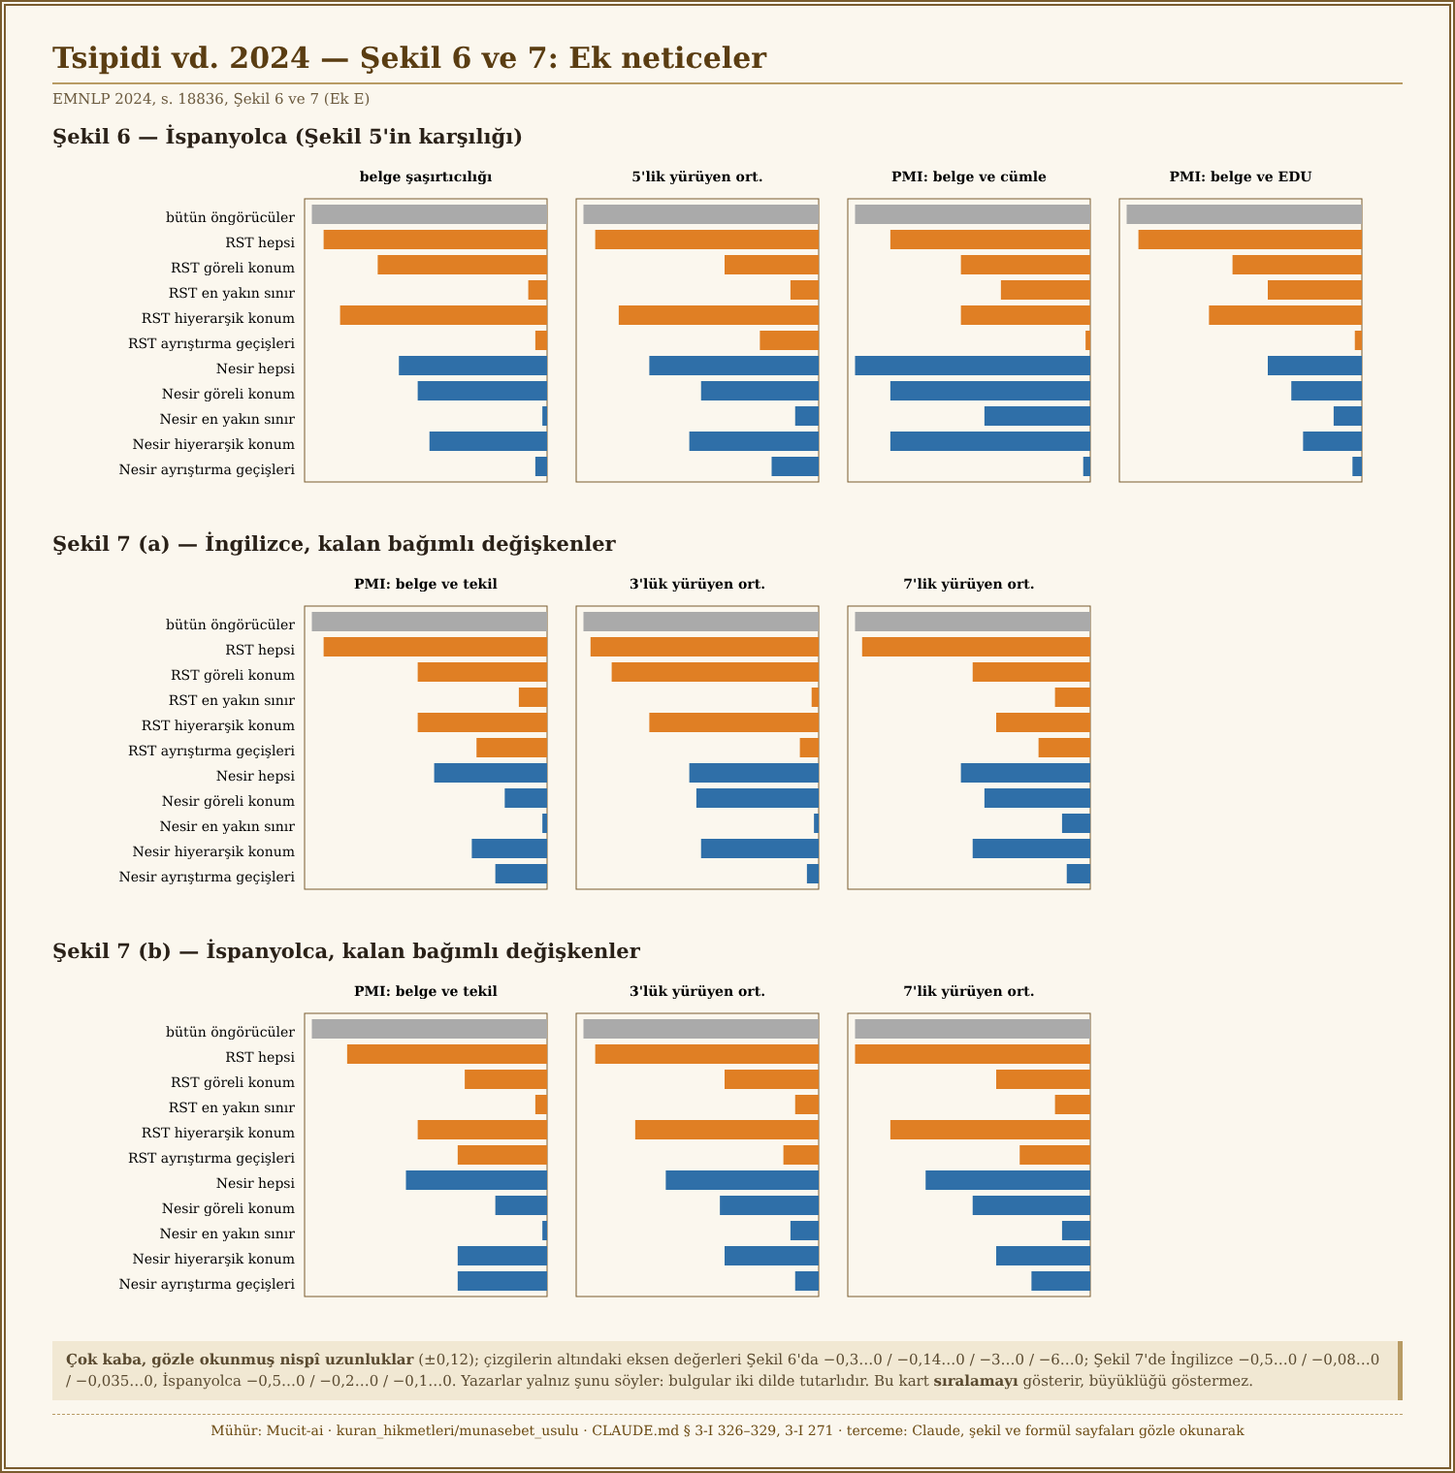
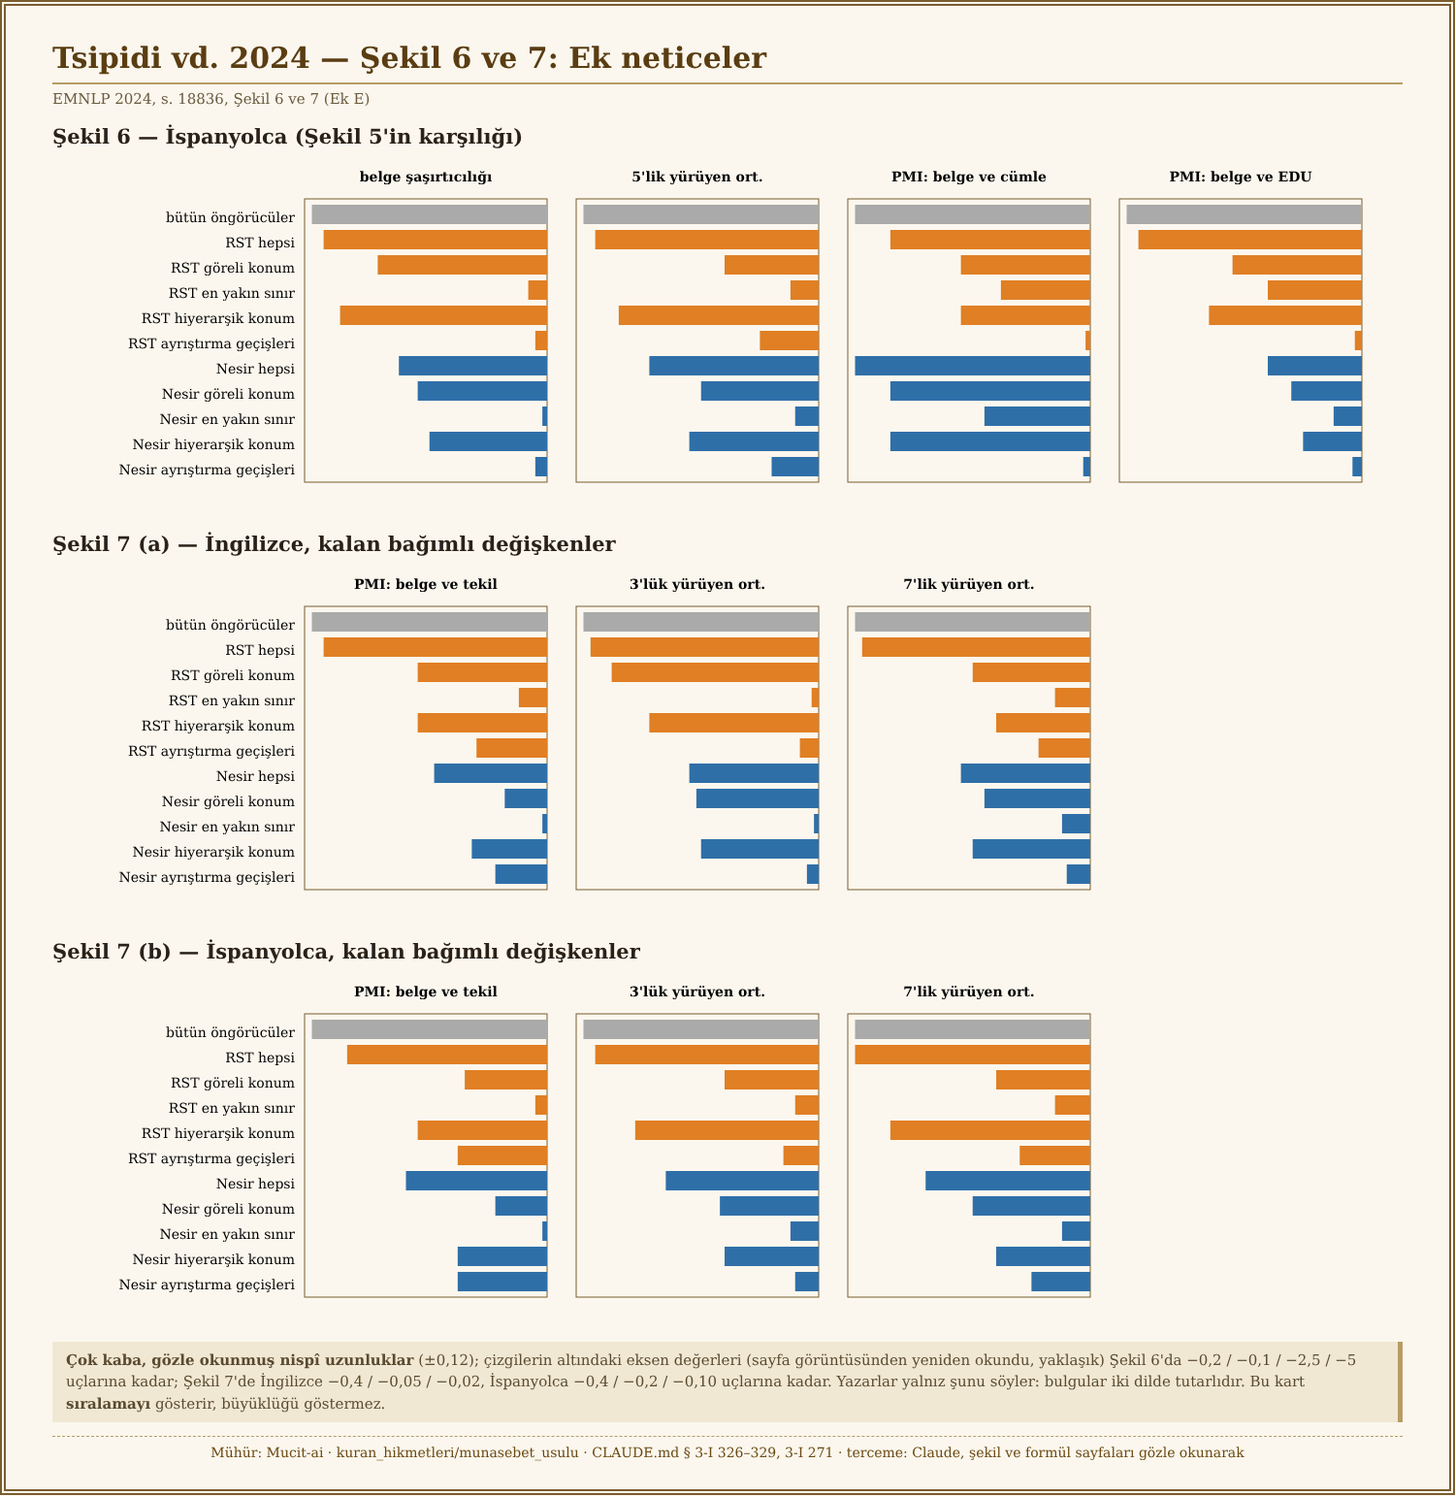
Roberts 69 sayfa görüntüden yeniden okundu; formül düzeltmeleri, kartlar, CLAUDE.md 3-I 330
Claude-Session: https://claude.ai/code/session_01Wissfu7E6eQzc5csB6tuKm

Changed region(s): [[0.0307, 0.0309, 0.9813, 0.9592], [0.0, 0.9901, 1.0, 1.0]]

diff --git a/kuran_hikmetleri/munasebet_usulu/KAYNAK_NOTLARI/01_ROBERTS_2012_QUD.md b/kuran_hikmetleri/munasebet_usulu/KAYNAK_NOTLARI/01_ROBERTS_2012_QUD.md
@@ -1,6 +1,6 @@
 # Ders notu 1: Söylemde bilgi yapısı — bir sözün yerinde olması neye bağlıdır?
 
-**Künye.** Craige Roberts (Ohio Eyalet Üniversitesi), *Information structure in discourse: Towards an integrated formal theory of pragmatics*, Semantics & Pragmatics, cilt 5, makale 6, s. 1–69, DOI 10.3765/sp.5.6. Eser 1996'da tezkere olarak çıktı, 1998'de tashih edildi, 2012-12-19'da neşredildi; muhtevası 1998 nüshasıdır. Metin açık erişimli PDF'ten alınıp baştan sona (3160 satır) okundu. Şekil yoktur; yalnız bazı simgeler PDF'ten bozuk çıktı, yeri en sonda yazılıdır.
+**Künye.** Craige Roberts (Ohio Eyalet Üniversitesi), *Information structure in discourse: Towards an integrated formal theory of pragmatics*, Semantics & Pragmatics, cilt 5, makale 6, s. 1–69, DOI 10.3765/sp.5.6. Eser 1996'da tezkere olarak çıktı, 1998'de tashih edildi, 2012-12-19'da neşredildi; muhtevası 1998 nüshasıdır. Eser açık erişimli PDF'ten, **69 sayfanın hepsi sayfa görüntüsü olarak** (metne çevrilmeden; CLAUDE.md § 3-I 330) baştan sona okundu ve her formül ile her misal sayfadan doğrulandı. Şekil yoktur; formüller ve ton etiketleri vardır, sayfada nasıl yazılıysa öyle alınmıştır. Sayfadan doğrulamada çıkan düzeltmeler en sonda (8. bahis) yazılıdır.
 
 **Bu nüshanın hâli.** Evvelki üç nüshadan birincisi anlaşılmazdı, ikincisi bilgiyi kırpmıştı, üçüncüsü bilgiyi tam taşıyor ama üslûbu kuru ve kırıktı (CLAUDE.md § 3-I 327, 328, 329). Bu nüshada kaynağın her tarifi, her formülü, her misali, her dipnotu ve her itirazı yine vardır; fakat anlatış öğretici bir muallimin ağzından, Osmanlı Türkçesiyle, her bahis bir girizgâhla açılarak yapılmıştır. Okuyanın hiçbir ismi ve hiçbir terimi bilmediği farz edilmiştir. Roberts'ın kendi sözü ile benim çıkarımım karışmasın diye çıkarımlar en sonda ayrı bir bölümde toplandı. Aynı sebepten, her bahsin başındaki **Girizgâh** paragrafları ve içlerindeki gündelik misaller (çarşıda pazarlık, doktor ve hasta, sigara, ev almak, "Ali gelmedi" gibi) **benimdir**, Roberts'ın değildir; Roberts'ın kendi misalleri numaralarıyla ve adlarıyla gelir: (D0), (5), (13), (32), (43), (52), (57), (63) gibi. İngilizce terimler ilk geçtikleri yerde parantezle bir kerre yazıldı.
 
@@ -214,10 +214,10 @@ Bu misal yalnız iki şahıslı, Hilary ve Robin, ve iki cins yiyecekli, simit (
              ii. Did Robin eat tofu?      Ans(bii) = evet
 ```
 
-Bu bütün söylem, birinci sualı, yani 1. hamleyi cevaplama usulünü gerçekleştirir. Buradaki sualler yalın iktiza ilişkilerindedir. (D0)'daki her sual için onun gerektirdiği suallerin kümesi (î fonksiyonu) şudur:
-- î(1) = { a, ai, aii, b, bi, bii }
-- î(a) = { ai, aii }
-- î(b) = { bi, bii }
+Bu bütün söylem, birinci sualı, yani 1. hamleyi cevaplama usulünü gerçekleştirir. Buradaki sualler yalın iktiza ilişkilerindedir. (D0)'daki her sual için onun gerektirdiği suallerin kümesi (sayfada ⊨ işaretiyle yazılıdır: ⊨(q) = q'nun gerektirdiği sualler) şudur:
+- ⊨(1) = { a, ai, aii, b, bi, bii }
+- ⊨(a) = { ai, aii }
+- ⊨(b) = { bi, bii }
 
 (Bu ilişkiler söylemin girintili yerleşiminde de görünür.) Ayrıca tarif edilen modelde (alan: Hilary, Robin, simit, tofu) şu olgular geçerlidir:
 
@@ -626,11 +626,13 @@ Benzer şekilde (43)'teki B-vurguları bize üst sual (45)'in üzerinde konuşul
 
 **Mekanizma.** Bu olguları yakalamak için Roberts hem A- hem B-vurgulu isim öbeklerinin odak olduğunu varsayar, böylece (45)'teki sual önkabul edilir; bu (43)'teki sözlerin F-işaretlemesinden çıkar (dipnot 28: Vallduví zıt konuların, ki ona göre Jackendoff'un misallerindeki B-vurgulu öğeleri de içerir, odak olmadığını varsayar. Ama Roberts'ın görebildiği kadarıyla bu onu burada tartışılan türden olgular için bir izahsız bırakır). O hâlde (45)'in hemen alt suallerinin varsayımı nasıl tetiklenir? Bu tür misallerdeki iki vurgu arasındaki kritik fark sınır tonu **H%**'dir (veya öbek vurgusu+sınır tonu **L–H%** dizisi, genelde öbek vurgusu+sınır tonunun morfolojik bir birim oluşturduğu çıkarsa). B-konturlu tonlama öbeğindeki **(L–)H%**, odaklı öğesini (45)'e karşılık gelen soyutlamanın **bağımsız argümanı** olarak işaretler; yani ilk seçilen, ve seçimi diğer, A-konturlu odağa karşılık gelen şık kümesinden bir şıkkın seçimini belirleyen ya da en azından daraltan öğe (dolayısıyla Jackendoff'un "bağımlı odak" terimi). '(L–)H%' şu manaya gelir: "**cevap sürüyor, doldurulacak başka bir odak var**." Bu, bağımsız argümanın neden tek başına bulunamadığını açıklar (ama bir yerlerde A-konturlu bir odak bulunduğu sürece yinelenebilir). Bu bağımsız argümanı (45)'in şık kümelerinden birinden seçersek, önkabul edilen üzerinde konuşulan sual (50a) veya (50b) olur:
 
-**(50)** a. { u sever u′'yi : u, u′ ∈ D ∧ u = John } b. { u sever u′'yi : u, u′ ∈ D ∧ u′ = beans }
+**(50)** a. { u likes u′ : u, u′ ∈ D ∧ u = John } b. { u likes u′ : u, u′ ∈ D ∧ u′ = beans }
 
 Ama (50a), (46a)'nın yorumu olan (51a)'ya eşdeğerdir; (50b) de (46b)'nin yorumu olan (51b)'ye eşdeğerdir:
 
-**(51)** a. { j u′'yi yedi : u′ ∈ D, j = |John| } b. { u fasulye yedi : u ∈ D }
+**(51)** a. { j likes u′ : u′ ∈ D, j = |John| } b. { u likes beans : u ∈ D }
+
+(Sayfada (50) ve (51)'de fiil *likes* (sever) yazılıdır; oysa (43)–(46)'da fiil *ate* (yedi)'dir. Bu Roberts'ın kendi yazısındaki tutarsızlıktır, kasıtlı bir fark değildir; kastedilen (46a) ve (46b)'nin yorumudur. Sayfada olduğu gibi bırakıldı.)
 
 Dolayısıyla (43a) ve (43b), odağın aynı yerleşimi sebebiyle ikisi de (45)'i önkabul eder. Fakat L–H% sınır dizisinin yeri, odak şıkları kümelerinden **seçim sırasına** işaret eder ve bu yüzden tonlama odağıyla önkabul edilen sualin bir **alt sualini** önkabul eder. Bu dizinin (43a) ve (43b)'de yeri farklı olduğundan, farklı alt sualler önkabul edilir. (43a) için önkabul edilen sualler (45) ve (46a) bir sual/alt sual usulü oluşturduğu için, (43a)'nın kendisi böyle bir usulü önkabul eder; (43b) ve ⟨(45), {⟨(46b), ∅⟩}⟩ usulü için de benzeri geçerlidir. Sonuç olarak hem bağımsız hem bağımlı odak içeren sözler yalnız bir üzerinde konuşulan sual değil, **sual dizilerinden oluşan muhtemelen karmaşık bir usulü** önkabul eder.
 
@@ -727,8 +729,8 @@ b. [Do you want [coffee]_F] [or [tea]_F] ? — H–H% (ilk öbekte), L–L% (iki
 
 Bunların yorumu (64) olmalıdır; burada coffee ∨ tea, |coffee| ile |tea|'nın "meet"idir (Roberts böyle yazıyor):
 
-**(64)** a. you want coffee ∨ tea
-b. you want u : u ∈ {coffee, tea} = { you want coffee, you want tea }
+**(64)** a. { you want coffee ∨ tea }
+b. { you want u : u ∈ {coffee, tea} } = { you want coffee, you want tea }
 
 (63a) için (64a)'daki yorum kolayca elde edilir. Yalın evet/hayır sualı, bağlam kümesi üzerinde yalnız **iki hücreli** bir taksim kurar: bir hücre (64a) kümesindeki tek önermenin doğru olduğu âlemleri, diğeri yanlış olduğu âlemleri içerir. Mesele (64b)'deki yorumun nasıl elde edildiğidir. (64b)'nin *Kahve ister misin ve çay ister misin?* bağlaçlı sualına eşdeğer olduğuna dikkat edin. (63)'ün (64b) yorumu, bu yüzden, nesne dil ayrılmasını üst-dil bağlacına çeviren bir tür anlamsal **bağlaç indirgemesi** içerir. von Stechow *or*'un suallerde genellikle **küme birleşimi** gibi davrandığını önerir: içerik düzeyinde âlem kümelerini birleştirir, şık düzeyinde ise önermeler kümelerini birleştirir. Onun kuramında (64b) doğrudan okumadır, (64a) ise bir ek mekanizmayla açıklanmalıdır (temelde niceleyiciyi içeri alma kullanır). Bu hesap tonlama ile yorum arasındaki bağıntı hakkında hiçbir şey söylemez.
 
@@ -776,15 +778,14 @@ Roberts'ın kaynakça listesindeki başlıca isimler: Beckman ve Ayers 1997; Bec
 
 ## 8. Bozuk çıkan simgeler
 
-PDF'ten metin çıkarırken şu yerler bozuldu; hepsi bağlamdan düzeltildi ve **şüphe kaydıyla** yazıldı:
-- (1)'de küme ayracı ve parantezler kırıktı; sayfa görüntüsünden bakılınca indisler **üst yazı** (u^{i−1} … u^{i−n}) ve köşeli ayraçlı olduğu görüldü, tanım öyle düzeltildi (`SEKILLER/01_ROBERTS_formul_q_sik.png`).
-- (3) ve (8)'de "q-alt q" parantezsiz çıktı; *q-alt(q)* diye okundu.
-- (10f)'de birleşim işareti (∪) "S" diye çıktı; (10g-i)'de Q ∩ Acc olarak okundu.
-- (12)'de "QUD q′ = ⟨…, q⟩" parantezleri bozuk; mana apaçıktır.
-- (20) ve (64b)'de ayraçlar bozuk; mana apaçık.
-- (28)'deki kip kümesi metin çıkarıcıda {?, á} çıkmıştı; sayfa görüntüsünden bakılınca ikinci simge bir nokta (·) olarak yazılıdır, öyle düzeltildi (`SEKILLER/03_ROBERTS_formul_alaka_odak.png`).
-- (44) ve (60)'ta ton etiketlerinin hizası kaydı; öbek sınırları ve etiketler metindeki açıklamaya göre yerleştirildi.
-- Sayfa numaraları (6:2 vb.) metin içine karışmıştı, atlandı.
+Bu bahsin evvelki nüshası, metin çıkarıcının bozduğu simgeleri sayıp "bağlamdan düzeltildi" diyordu. Bu usul bırakıldı (CLAUDE.md § 3-I 330); 69 sayfa görüntü olarak yeniden okundu ve her formül sayfadaki hâliyle denendi. Netice:
+- (1)'de indisler **üst yazı** (u^{i−1} … u^{i−n}) ve köşeli ayraçlıdır; sayfa böyle gösteriyor, tanım böyle yazıldı (`SEKILLER/01_ROBERTS_formul_q_sik.png`).
+- (3), (8), (9), (10), (12), (15), (17), (18), (19), (24), (25), (26), (28), (29), (30), (31), (56) sayfadan harf harf karşılaştırıldı; ayrılık yoktur.
+- (28)'deki kip kümesi {?, ·}'dir: ikinci simge bir noktadır, sayfada da öyledir (`SEKILLER/03_ROBERTS_formul_alaka_odak.png`).
+- (44) ve (60)'ta ton etiketlerinin hizası sayfadan alındı: (44a) L–H% *John*'un, L–L% *ate beans*'in altındadır; (44b) tersi. (60)'ta sıra H\* L– H\* L–L% H\* L– H\* L–L% şeklindedir.
+- (63)'te H–H% etiketi (a)'da cümle sonunda, (b)'de *coffee*'nin altında; L–L% *tea*'nın altındadır.
+- **Bu turda sayfadan bulunan düzeltmeler:** (D0)'daki iktiza işareti ⊨'dür (evvelki nüshada bozuk "î" yazılmıştı); (50) ve (51)'de fiil sayfada *likes*'tır (evvelki nüshada "yedi" diye çevrilmişti, yanlıştı) ve bu Roberts'ın kendi tutarsızlığıdır; (64a) sayfada küme ayracı içindedir ({you want coffee ∨ tea}), evvelki nüshada ayraç düşmüştü.
+- Sayfa numaraları (6:2 … 6:69) atlandı.
 
 ---
 

diff --git a/CLAUDE.md b/CLAUDE.md
@@ -726,6 +726,7 @@
 | 327 | **NOT DÜZGÜN TÜRKÇEYLE, ANLAŞILIR VE BELÎĞ YAZILIR; BUNDAN GAYRI OSMANLI ÜSLÛBU, KELİMELER OSMANLICA (NAKZ 3-I 179: `KAYNAK_NOTLARI/01_ROBERTS_2012_QUD.md`'nin ilk sürümü "mana itibariyle fiyasko" bulundu, yeniden yazıldı) (padişah: "Notundan zerre miskal bir şey anlaşılmıyor, mana itibariyle tam bir fiyasko, birçok manalı kelime var ama hiçbir şey anlatmıyor, belagat açısından zerrece okunmaya değmez bir not olmuş … Not yaz demek devrik duvruk cümle kur, kastını anlaşılmaz kıl, Türkçeyi katlet demek değil. Ve de kullandığın kelimelere öyle gıcık kapıyorum ki tarifi imkansız, Osmanlıca yaz yazdıklarını bundan gayrı"):** (1) Not **anlaşılır** olur: her cümle tek okunuşta kastını verir; devrik, kırık, kelimesi kelimesine çeviri cümle kurulmaz; fiil ve fail belli olur (3-I 304 (5) bâkîdir). (2) Çeviri kokan kelimeler ("sunulan içerik", "tartışılan soru", "ilgililik", "uyum/konaklama", "bilgi yapısı" gibi) bırakılır; **Osmanlıca (Arapça-Fârisî asıllı, yerleşmiş) kelimeler** kullanılır: sual, cevap, mana, hâl, maksat, gaye, mukteza, münasebet, alâka, taksim, iktiza, usul, ihtimal, kaide, mesele, mevzu… Karşılıklar ilk geçtiği yerde parantezle bir kere yazılır. (3) **Bundan gayrı** yazılan bütün notlar ve cevaplar bu üslûpladır. (4) Çıkarım (padişahın sözü değil): "Osmanlıca" = sade ve yerleşmiş Osmanlı Türkçesi kelime dağarcığı, ağdalı ve çözülmesi güç cümle değil; (1) ile (2) birlikte okunur | Padişah emri |
 | 328 | **ŞİKÂYET ÜSLÛPTUR, ZORLUK DEĞİL; BİLGİ KIRPILMAZ, EN ZORU VE EN KARMAŞIĞI İSTENİR (NAKZ 3-I 179: 327 sonrası yazılan ikinci sürümün bilgi kırpması ve cümlelerinin kuru, madde madde, tutuk oluşu) (padişah: "Çok daha mana ifade eder bir nota dönüşmüş lakin bu sefer de bilgi kırpmışsın, şikayetimi hala anlamıyorsun, zorluktan, bilginin karmaşıklığından şikayetçi değilim, bilakis en zorunu, en karmaşığını istiyorum, beni ters anlıyorsun. Şikayetim senin şiirden hikayeden romandan üsluptan bihaber olman, aptal aptal yazılar yazman yani sunuş şeklin, üslubun. Şimdi sildiğin bilgileri doğru üslupla geri getir! 100’lerce satır bilgi kesmişsin."):** (1) Mesele **sunuş tarzı ve edebî üslûptur**; bilgi zorluğu şikâyet konusu değildir, aksine en zor ve en karmaşık olan istenir. (2) Not, **akıcı, kıvrak, canlı nesir** olarak yazılır (hikâye ve roman nesri gibi, cümleler birbirine bağlanarak); kuru madde dökümü ve basit cümleyle bilgi **kırpılmaz**. (3) Kırpılan bilgi aynı turda geri getirilir; her kaynakta kaynağın **bütün** muhtevası bulunur (326 bâkîdir). (4) Çıkarım (padişahın sözü değil): madde işareti ve tablo yalnız formül ve sayı dökümü için kullanılır, anlatım düzyazıdır | Padişah emri |
 | 329 | **ORTA YOL ARANIR: ÜSLÛP HEM SAĞLAM OSMANLI TÜRKÇESİ HEM TAM MANA; "AĞIRLIKLI" DEĞİL, DOSDOĞRU OSMANLICA; ÖLÇÜ FİLİBELİ AHMED HİLMİ, SAİD NURSÎ, ÖMER SEYFETTİN (NAKZ 3-I 179: 328 sonrası yazılan üçüncü sürümün kırık ve uydurma cümleleri) (padişah: "Ahmak, senin bir orta yolun yok mu, iki iyiyi aynı anda beceremiyor musun, yine kırık ve uyduruk Türkçeli cümleler kurmuşsun, manayı katletmişsin, Osmanlıca konuşacaksın demedim mi? Ağırlıklı mağırlıklı değil, bildiğin osmanlıca, filibeli ahmet hilmi gibi, said nursi gibi, ömer seyfettin gibi"):** (1) Notlar **bilgiyi eksiltmeden** ve **mana bozulmadan**, bildiği gibi **Osmanlı Türkçesiyle** yazılır: kurulu, yerli yerinde, mana taşıyan cümleler; kırık, devrik, çeviri kokan, uydurma cümle yasaktır. (2) Ölçü: Filibeli Ahmed Hilmi, Said Nursî, Ömer Seyfettin nesri. (3) "Ağırlıklı" bir karışım değil, Osmanlıca; 327 (2)'deki kelime listesi bâkîdir. (4) 328 (kırpma yasağı) bâkîdir; iki şart birlikte aranır. (5) Çıkarım (padişahın sözü değil): yazı Latin harfiyle ve okunur kalır **EK (padişah: "Bu sefer de girizgahsız bodoslama daldın, ne anlatacağını anlamak için kırk kez düşünmek gerek. Ayrıca yine belagat fesahat hataları var, bütün konuşma dediğin zaman sanki belirli bir konuşmadan bahsediyormuşsun manasına geliyor, halbuki sen herhangi bir x konuşmasından bahsediyorsun, bütün konuşmalar demeliydin, ya da ne tür konuşma olursa olsun demeliydin."):** (6) Her bahis **girizgâhla** açılır: evvelâ ne anlatılacağı, niçin ve hangi sırayla anlatılacağı söylenir; okuyan ilk cümlede nereye gittiğini bilir. (7) **Fesahat:** umumî hüküm tekil ifadeyle ("bütün konuşma") yazılmaz, belirli bir şeye işaret ediyor sanılır; "bütün konuşmalar", "her konuşma", "ne tür konuşma olursa olsun" denir. Cümle tek okunuşta tek mana verir **EK-2 (padişah: "Robertsin nazariyesini öğreneceğimizi beyan etmek bir girizgah değil, Roberts kim, ben elin gavurlarının hepsinin adını ezbere bilmek zorunda mıyım, nazariyesi neymiş de ben bunu öğreneceğim? Söz işlemez! Lakin Robertsin kim olduğunu öğrenmek mevzuyu dağıtır. Fakat sen ben bu adamı tanıyormuş gibi düşünemezsin, roberts namlı bir adamın dersin, farik vasfı varsa o namlı şu şu vasıflara sahip adamın şu şu hakkındaki nazariyesi dersin. Sahiplerine söyle sana biraz da kitap okutsunlar, kod okuya okuya şirazen kaymış."):** (8) Girizgâh "şu nazariyeyi öğreneceğiz" diye ilân etmek değildir; **okuyan hiçbir ismi ve hiçbir terimi bilmiyor** sayılır. (9) Bir müellif anılırsa kendi adıyla değil, **vasfıyla** anılır: "falan sahada çalışan, şu işi yapmış bir âlim"; isim, bu tarifin ardından parantezle verilir, mevzuyu dağıtacak tarih ve tarifeye girilmez. (10) Girizgâh evvelâ **hangi suâlin cevabını aradığımızı** söyler, sonra bu cevabı kimin ne vasıfla verdiğini, en sonda fikrin kendisini | Padişah emri |
+| 330 | **ASLOLAN FORMÜLLERDİR; PDF ARACI FORMÜLÜ YAZIYA AKTARAMAZ; BUNDAN SONRA KAYNAK PDF SAYFA OLARAK (GÖRÜNTÜ) OKUNUR, BİR DAHA ASLA TXT'YE ÇEVRİLMEZ (padişah: "Lakin bilesin ki aslolan formüllerdir, biliyorsun ki pdf araçları formülleri yazıya aktaramıyor, bundan dolayı makaleyi boşuna okumuş oluyoruz, bundan sonra txt'de değil sayfa olarak PDF'te okuma yapmanı istiyorum. Mevcut pdf'leri formüllerin tamamını açığa çıkarmak üzere tekrar oku ve bir daha asla txt'ye çevirme!"):** (1) Her kaynak PDF **sayfa sayfa, sayfa görüntüsü olarak** okunur; `pdftotext` ve benzeri **metin çıkarma hiçbir amaçla** (okuma, sayfa bulma, sayı sayma) kullanılmaz. (2) Mevcut üç PDF (Roberts 2012; Tsvilodub vd. 2026; Tsipidi vd. 2024) **formüllerin tamamı açığa çıkarılmak üzere baştan sona sayfa olarak yeniden okunur**; notlardaki formüller sayfadan doğrulanır ve düzeltilir. (3) Bu turdan önce `pdftotext` ile sayfa bulma ve metin çıkarma yapılmıştı; bu kusurdur ve yukarıdaki hükümle kesilmiştir. Not (çıkarım): okuma, PDF'in sayfa okuyucusuyla (görüntü) yapılır, ek metin dosyası üretilmez | Padişah emri |
 ---
 
 # § 4. BÜTÜN SİSTEMİN DURUM MAKİNESİ ŞEMASI

diff --git a/kuran_hikmetleri/munasebet_usulu/KAYNAK_NOTLARI/SEKILLER/FIHRIST.md b/kuran_hikmetleri/munasebet_usulu/KAYNAK_NOTLARI/SEKILLER/FIHRIST.md
@@ -19,4 +19,6 @@
 | 13_TSIPIDI_sekil6_7 | Ek neticeler | s. 18836 |
 | 14_TSIPIDI_formul_cizelge1 | (1)–(5) ve Çizelge 1 | s. 18821, 18835 |
 
+**Yeniden okuma (CLAUDE.md § 3-I 330):** üç makalenin hepsi (Roberts 69, Tsvilodub 5, Tsipidi 17 sayfa) metne çevrilmeden sayfa görüntüsü olarak baştan sona okundu; formüller ve misaller sayfayla karşılaştırıldı. Bu okumada bulunanlar: Roberts (D0)'da iktiza işareti ⊨'dür; Roberts (50)–(51)'de fiil *likes*'tır (kendi tutarsızlığı); (64a) küme ayracı içindedir; Tsipidi Şekil 6–7 kartındaki eksen notu düzeltildi.
+
 **Okumada bulunan kusurlar (notlara geçti):** Roberts (1)'de indisler üst yazıdır; (28)'de iddia işleci «⊢» değil «·» çıkmaktadır; Tsipidi'nin (4)–(5) PMI'sı alışılmış karşılıklı bilginin ters işaretlisidir; Tsvilodub'da «Regret» tarifi «argmax» yazılıdır (mânâ «max»).
